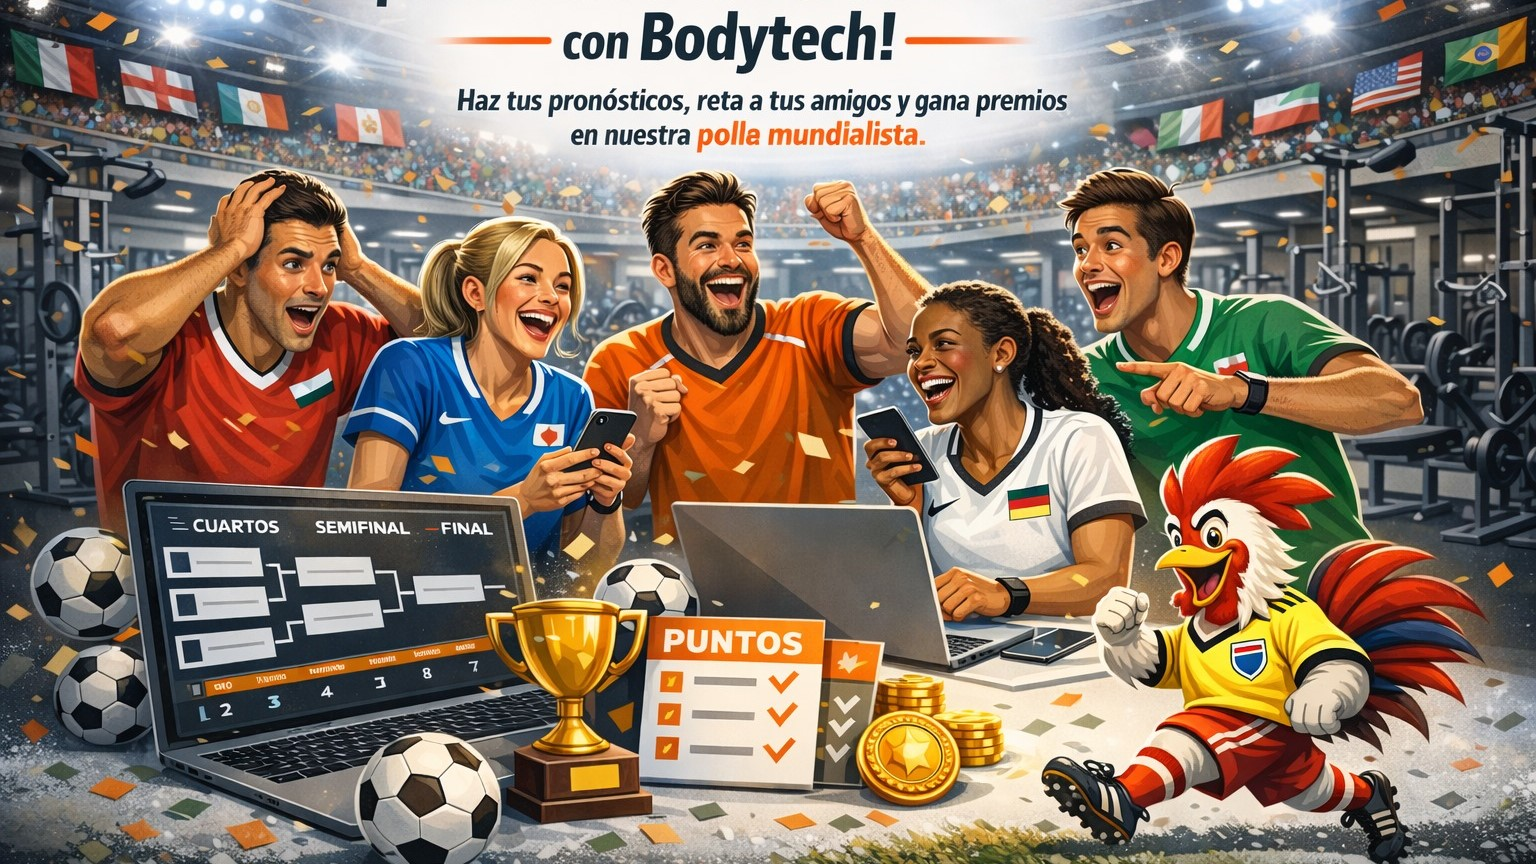
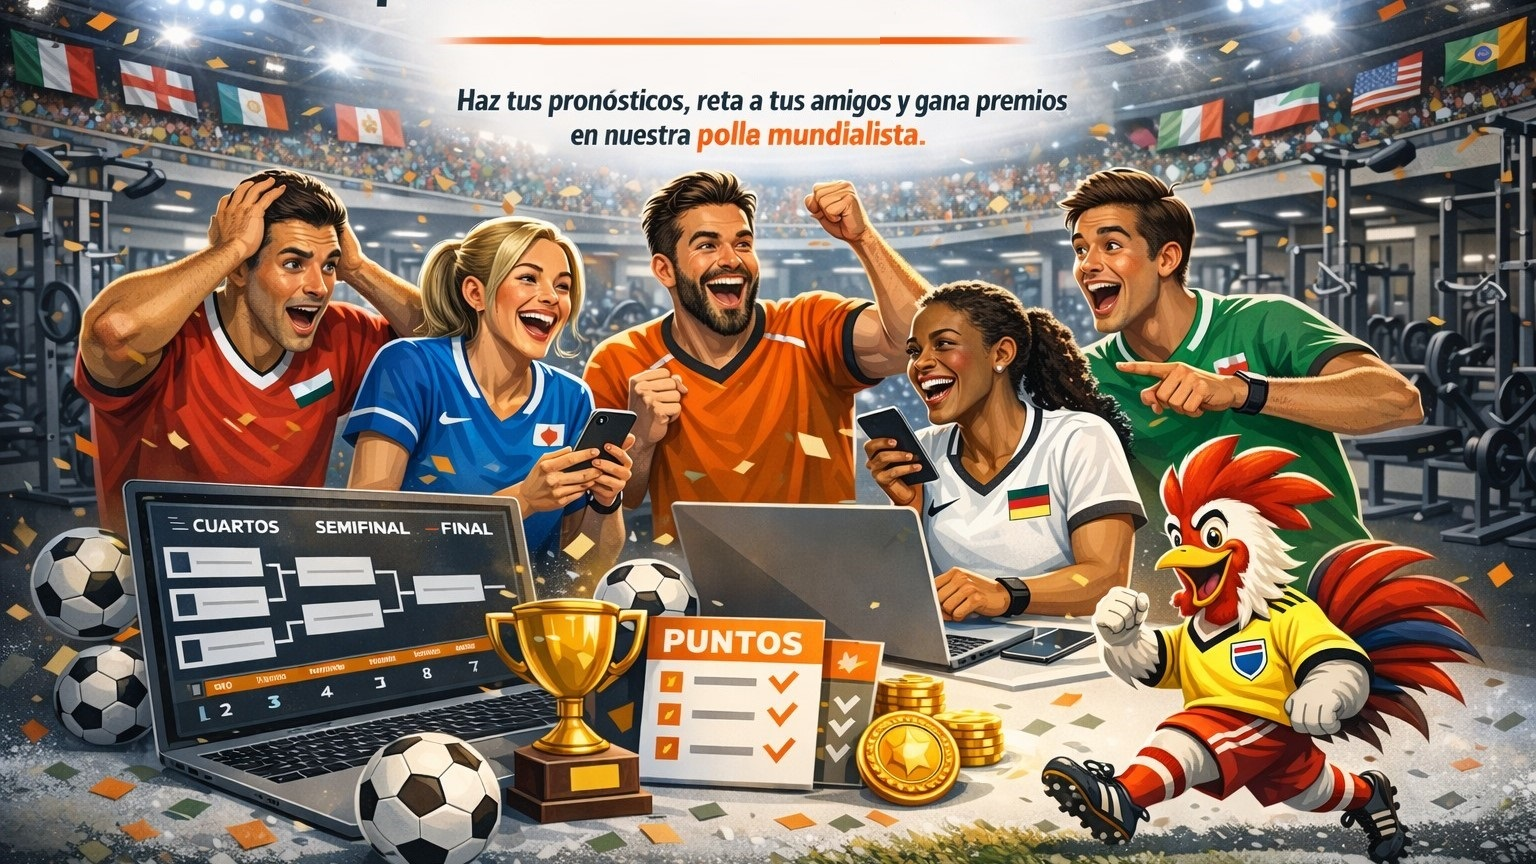
version mejor
para celular

Changed region(s): [[0.3438, 0.0, 0.5938, 0.0938]]

diff --git a/app.py b/app.py
@@ -69,6 +69,19 @@ st.markdown(f"""
         padding-bottom: 0.5rem !important;
     }}
 
+
+/* --- HACER VISIBLE EL BOTÓN DE MENÚ EN CELULARES --- */
+    header[data-testid="stHeader"] button {
+        background-color: rgba(30, 41, 59, 0.8) !important;
+        border: 1px solid rgba(255, 255, 255, 0.3) !important;
+        border-radius: 8px !important;
+        margin: 5px !important;
+    }
+    header[data-testid="stHeader"] svg {
+        fill: #ffffff !important;
+        stroke: #ffffff !important;
+    }
+
     /* --- MENÚ LATERAL (SIDEBAR) 70% TRANSPARENTE --- */
     [data-testid="stSidebar"] {{
         background-color: rgba(30, 41, 59, 0.3) !important;
